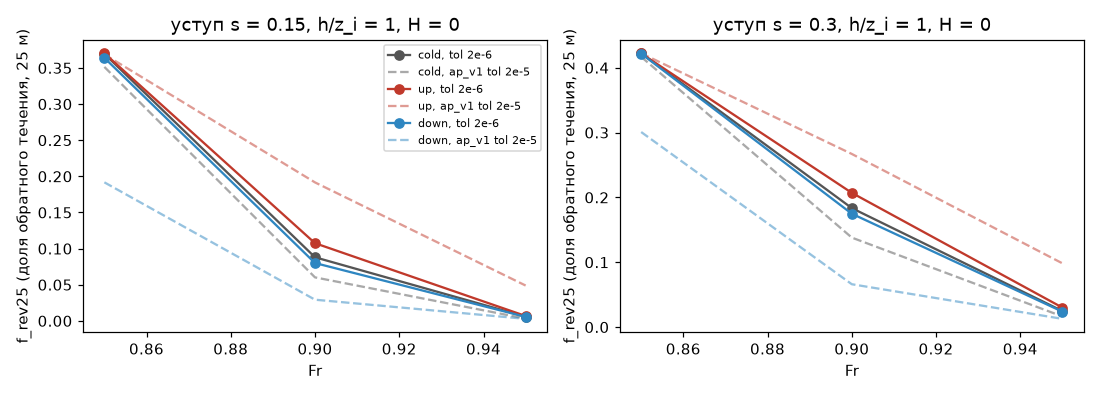
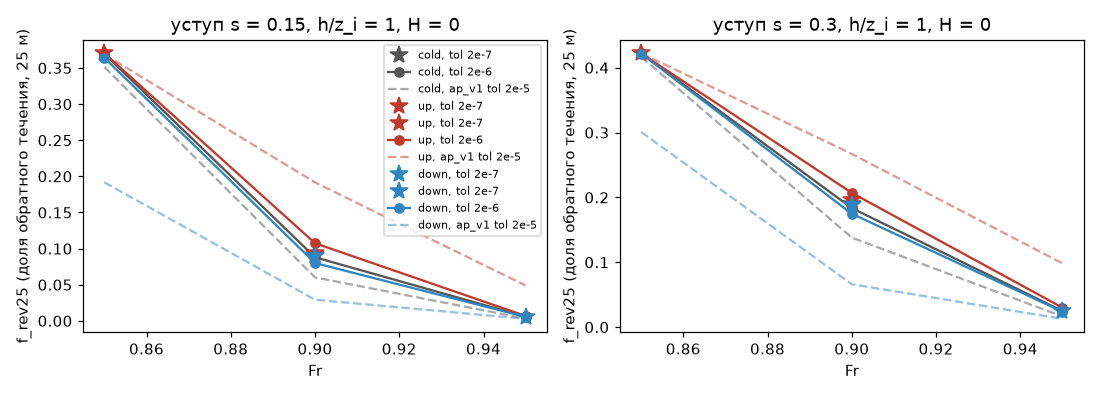
AP-15: дозамер ветви tol 2e-7 (ap_probe_t) — ветви у уступа нет (branch = no)
Claude-Session: https://claude.ai/code/session_01XxYnXNcDZx4u9EXdBZ7XVh

diff --git a/tools/research/air_phase/analysis/AP-15/section.md b/tools/research/air_phase/analysis/AP-15/section.md
@@ -3,7 +3,7 @@
 `$PY tools/research/air_phase/probe_build.py run` (GPU, под `dp job --lock gpu`, план `ap_probe`, 45 случаев, 4 мин счёта) → `$PY tools/research/air_phase/analysis/AP-15/run.py` (CPU, < 1 мин); дозамер ветви: `probe_build.py run --plan $AIR_SYNTH_DATA/phase/ap_probe_t` (26 случаев, tol 2e-7), затем снова `run.py`. `$PY` = `/home/greg/deltaplan-air-synth/tools/research/air_nn_pilot/.venv/bin/python`.
 
 **Вывод.**
-1. **Ветвь у уступа — `unclear`, скорее нет.** При критерии в 10 раз строже (tol 2e-6) сошлись все 18 случаев и все 18 пар состояний (холодный, тёплый снизу, тёплый сверху). Три «разных» состояния AP-8 почти слились. Пример — s = 0,3, Fr 0,9: f_rev25 был 0,27 / 0,14 / 0,07 (вверх / холодный / вниз), стал 0,21 / 0,18 / 0,17. В 17 парах из 18 доля клеток с |Δu| > 0,1 U_sat стала < 1 %, а p99 |Δu| упал в 3–32 раза. Меньше чем в 3 раза он упал в двух случаях. Первый — пары, где расхождение и при tol 2e-5 было ≤ 0,01 U_sat. Второй — пары при s 0,3, Fr 0,9: холодный против снизу (2,9) и снизу против сверху (2,3). Одна пара осталась на грани критерия: s = 0,3, Fr 0,9, вверх против вниз — 1,35 % объёма > 0,1 U_sat, max 0,21 U_sat, Δf_rev25 = 0,032. Против tol 2e-5 её p99 сжался лишь в 2,3 раза (доля объёма — в 8 раз, Δf_rev25 — в 6). Fr 0,9 — точка самого медленного схождения (холодный старт — 731 итерация против 491 при Fr 0,95), и там ошибка ~ε/(1−ρ) больше всего. Это говорит за критическое замедление, но порог 3× формально не пройден. Дозамер tol 2e-7 при Fr 0,9 (план `ap_probe_t`) стоит в очереди GPU после AP-14. Если p99 упадёт ещё в ≥ 3 раза и доля станет < 1 % — `no`, если не изменится — `yes`; `run.py` решает это сам.
+1. **Ветвь у уступа — `no`.** При критерии в 10 раз строже (tol 2e-6) сошлись все 18 случаев и все 18 пар состояний (холодный, тёплый снизу, тёплый сверху). Три «разных» состояния AP-8 почти слились. Пример — s = 0,3, Fr 0,9: f_rev25 был 0,27 / 0,14 / 0,07 (вверх / холодный / вниз), стал 0,21 / 0,18 / 0,17. В 17 парах из 18 доля клеток с |Δu| > 0,1 U_sat стала < 1 %, а p99 |Δu| против tol 2e-5 упал в 3–32 раза; меньше 3 раз — только там, где расхождение и при 2e-5 было ≤ 0,01 U_sat, и у пар при s 0,3, Fr 0,9 (2,9 и 2,3). Одна пара осталась на грани критерия: s = 0,3, Fr 0,9, вверх против вниз — 1,35 % объёма > 0,1 U_sat, max 0,21 U_sat. Дозамер ещё в 10 раз строже (tol 2e-7, план `ap_probe_t`, Fr 0,9, обе s, все 6 пар сошлись) решил вопрос: у этой пары p99 0,123 → 0,023 U_sat (в 5,3 раза), max 0,21 → 0,072 U_sat, доля > 0,1 U_sat 1,35 % → 0, Δf_rev25 0,032 → 0,006; у остальных пар при 2e-7 p99 ≤ 0,018 U_sat. Расхождение уходит вместе с допуском (ошибка ~ε/(1−ρ) при критическом замедлении у Fr 0,9), второй неподвижной точки нет; «гидравлической бистабильности уступа под инверсией» решатель не показывает.
 2. **Цикл у порога U/N — численная мода всей колонны; период зависит от U/N, алиасинга в AP-13 не было только при U_sat 6.** du_max и колонны записаны на каждой итерации (3000 итераций, 2999 записей на случай). Период по спектру u в колоннах, пик несёт 99,9 % мощности полосы, АКФ на периоде 0,98–0,99:
 
    | U_sat, м/с | N, 1/с | Fr | N/N_c (long, AP-13) | период, итераций | период / Fr | λ_z/(период·Δz) |
@@ -23,7 +23,7 @@
 
    Рост λ в 4 раза поднимает S хребта до литературного 0,06–0,11 (0,087) и укорачивает пузырь хребта s 0,5 в 2,2 раза (9,4 → 4,2 h). Угол тени растёт с 6° до 13°, обратный поток слабеет с −0,21 до −0,08 U_sat, то есть входит в аэротрубные −0,1…−0,2. Значит, медленный рост слоя смешения из-за малого λ — действительно главная причина длинного пузыря AP-10. Но до литературы хребет не доходит: 4,2 h против 2,8–3,5 h и 13° против ~16°. При том же λ = 160 у хребта s 0,3 (у порога отрыва 0,27) обратное течение исчезает совсем, а пузырь уступа (2,1 h, 19,6°) становится короче, чем у обратного уступа (6–8 h). Одно глобальное λ не подходит сразу для хребта и уступа. Длину перемешивания, видимо, надо привязать к оторвавшемуся слою, а не к высоте над землёй (длина Блэкадара), — это отдельная задача, здесь не проверялось.
 
-**Рекомендации.** Ветвь: в классификатор фаз ветвь не вводить. Флаг «ненадёжно» у уступа и хребта при h/z_i ≈ 1, Fr 0,85–0,95 оставить до дозамера. Цикл: в сборке по фазам не верить полю несошедшихся случаев выше N_c (late mean усредняет моду всей колонны, в том числе у верха). Для проверки AP-13 §9 п. 5 нужен прогон с высоким верхом и толстой губкой — при нём мода должна сменить период или исчезнуть. Для `lee` игры: угол хребта брать по литературе (14–16°), как советовал AP-10. Решатель при λ = 160 даёт 13°, а при λ = 40 занижает угол вдвое.
+**Рекомендации.** Ветвь: в классификатор фаз ветвь не вводить. Флаг «ненадёжно» у уступа и хребта при h/z_i ≈ 1, Fr 0,85–0,95 оставить как признак медленной сходимости (при обычном tol 2e-5 поля там ошибаются до 0,1–0,3 U_sat), а не ветви. Цикл: в сборке по фазам не верить полю несошедшихся случаев выше N_c (late mean усредняет моду всей колонны, в том числе у верха). Для проверки AP-13 §9 п. 5 нужен прогон с высоким верхом и толстой губкой — при нём мода должна сменить период или исчезнуть. Для `lee` игры: угол хребта брать по литературе (14–16°), как советовал AP-10. Решатель при λ = 160 даёт 13°, а при λ = 40 занижает угол вдвое.
 
 **Оговорки и границы модели.**
 - Решатель — установившиеся RANS по псевдовремени (Пикар, Буссинеск, K = max(K_HB, l²|S|·F(Ri)), l = (1/κz + 1/λ)⁻¹ — длина Блэкадара от земли), float32, сетка-«лесенка» 400 м / Δz 105 м, окно 100 м / 50 м с переносом 2-го порядка. «Период» — в итерациях псевдовремени, физическим временем он не является (×Δτ_u = 120 с даёт 2200–2700 с, но это пересчёт, а не время). Устойчиво ли стационарное решение выше N_c в реальной атмосфере, этот решатель сказать не может.
@@ -32,7 +32,7 @@
 - λ: опция действует на всю область и окно, не только на оторвавшийся слой. Растёт и K в верхней части прилегающего пограничного слоя (у земли l ≈ κz от λ почти не зависит). Сравнение — один Fr (3) и одно h/z_i (0,3). S — по сечению через бровку (AP-10 `bubble_diag`), при отсутствии пузыря (хребет s 0,3, λ 160; s 0,3, λ 80 — слой слишком короткий) не определён.
 
 **Рисунки** (агенты их не открывали):
-- ![Ветвь у уступа](fig_branch.png) — f_rev25 против Fr: холодный, снизу, сверху при tol 2e-6 (сплошные) и ap_v1 при tol 2e-5 (пунктир); звёзды — tol 2e-7, если дозамер посчитан.
+- ![Ветвь у уступа](fig_branch.png) — f_rev25 против Fr: холодный, снизу, сверху при tol 2e-6 (сплошные) и ap_v1 при tol 2e-5 (пунктир); звёзды — tol 2e-7 (дозамер).
 - ![du1 и u колонны](fig_dumax_traces.png) — du1 на каждой итерации и u в колонне наибольшей σ на итерациях 2500–2700.
 - ![Вертикальная структура моды](fig_dumax_vertical.png) — σ_u(z) поздних итераций по колоннам: пучности у земли и у верха, узел на 1,1–1,4 км.
 - ![Пузырь против λ](fig_lam_bubble.png) — L/h, угол тени, S против λ и литература.
